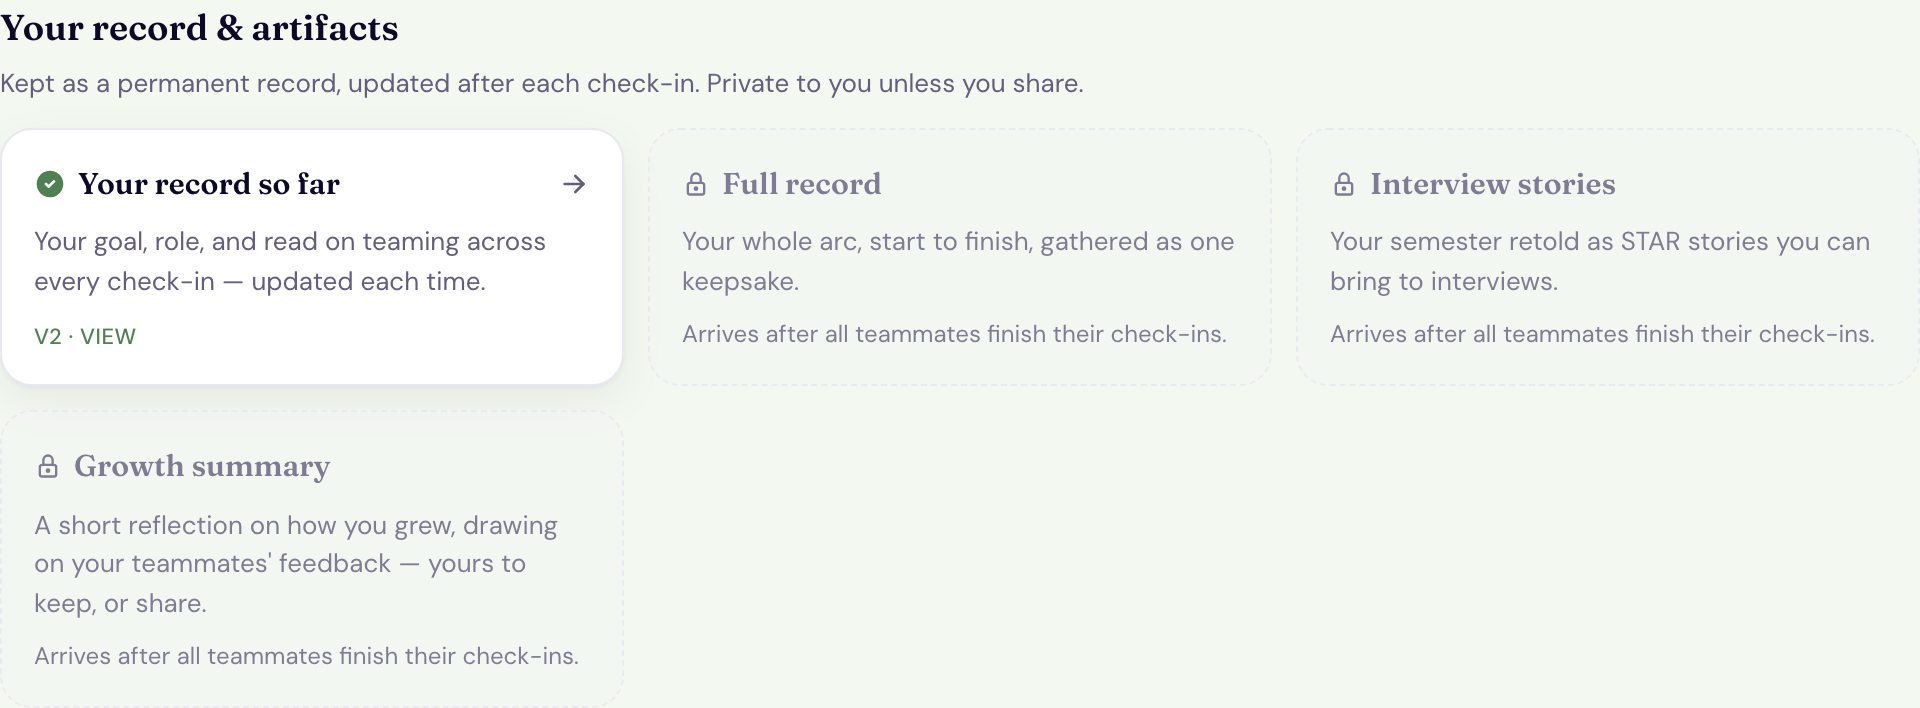
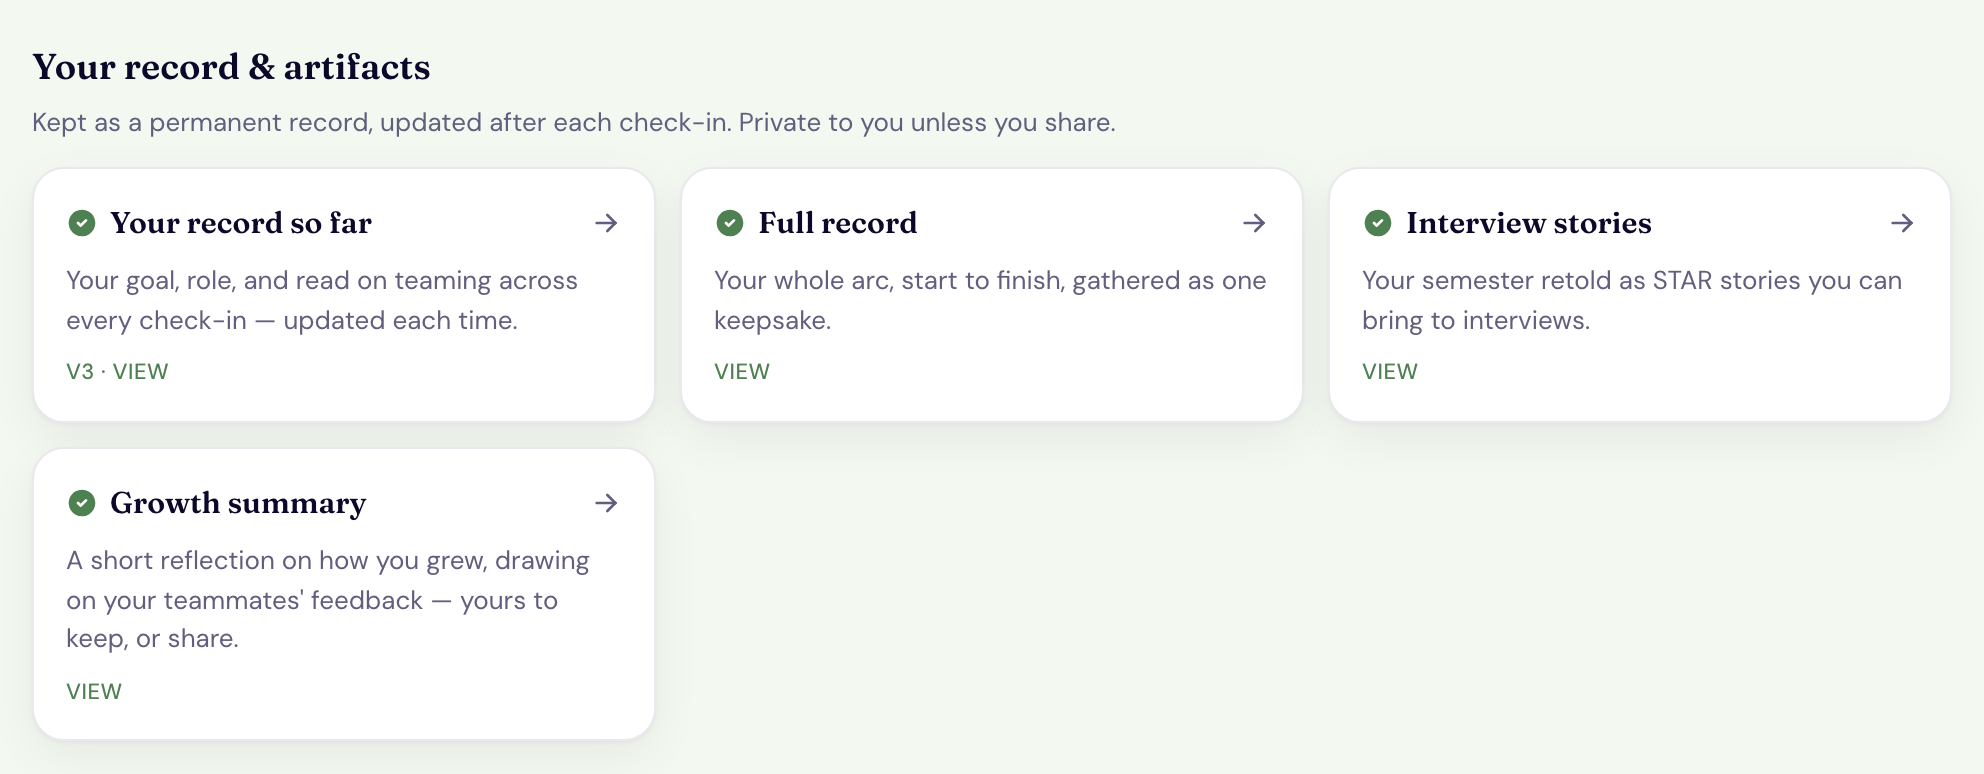
docs: refresh all student-journey screenshots + add onboarding & checkpoint visuals
Regenerated every student-journey screenshot from the live app (they were
captured before the recent checkpoint/profile UI changes) and added new ones so
the guide walks the whole path visually: onboarding (basics → résumé → the
post-extraction review → background → direction), the clean start "charter", the
mid/end survey with thumbs, the goal carry-forward, the peer-feedback section,
and the end-of-course post-mortem.

Text fixes for behaviour that changed:
- onboarding: the résumé step is a required gate, not "optional/skippable";
  documented the post-extraction review screen.
- checkpoint: the start checkpoint's attributes are aspirational (no thumbs);
  from mid-point on each gets a 👍/👉/👎 with one section-level reflection (there
  are no per-attribute notes); goal carries forward at every later checkpoint.
- overview: corrected the attributes description to match.
- how-to-read: screenshots now come from a seeded student account in Info 213.

Screenshots are now generated by a reproducible script (see SHOTLIST.md /
app-repo scripts/docs-shots), so future refreshes are one command.

diff --git a/docs/SHOTLIST.md b/docs/SHOTLIST.md
@@ -1,44 +1,42 @@
-# Screenshot shot-list
+# Screenshots — how they're captured
 
-Every image the docs reference, where to capture it, and the account/state needed.
-Capture at ~1280px wide, save as PNG into `docs/public/screenshots/<name>.png`.
-Sign in as **maya.demo@berkeley.edu** unless noted.
+Screenshots are **generated by a reproducible script**, not captured by hand, so
+they always match the live app. The scripts live in the main app repo at
+`scripts/docs-shots/` and write PNGs (1280px wide, 2× retina) straight into
+`docs/public/screenshots/`.
 
-| File | Route | What to show / state |
-| --- | --- | --- |
-| `signin.png` | `/login` (signed out) | The sign-in card |
-| `onboarding-basics.png` | `/onboarding` | First onboarding step *(fresh account; may need a new signup)* |
-| `onboarding-resume.png` | `/onboarding/resume` | The optional résumé step |
-| `join-code.png` | `/courses/new` | The join-by-code entry |
-| `course-new.png` | `/courses/new` | The two add options (code / catalog) |
-| `profile-graph.png` | `/profile` | Graph view of the map |
-| `profile-atlas.png` | `/profile` (toggle Atlas) | Atlas view |
-| `node-detail.png` | click any node | A node detail page |
-| `add-menu.png` | Home / Profile → Add | The Add menu open |
-| `portfolio.png` | `/experiences` | Portfolio of experiences + courses |
-| `moment-capture.png` | `/capture` | The moment capture screen |
-| `style-interests.png` | `/interests` | The interests survey |
-| `course-arc.png` | - | *(optional)* the two course dashboards side by side, or skip |
-| `course-welcome.png` | `/containers/info-213-fall-2026/welcome` | Welcome screen *(may redirect if already past it)* |
-| `course-stories.png` | `/containers/info-213-fall-2026/stories` | Choosing stories to share |
-| `course-dashboard.png` | `/containers/designing-human-body-fall-2026` | Hero + schedule (progress + next step) |
-| `course-tabs.png` | same | The Class / Team / Personal tab bar |
-| `checkpoint-form.png` | `/containers/designing-human-body-fall-2026/checkpoint/<mid2 id>` | The check-in survey |
-| `checkpoint-peer.png` | same (a mid/end checkpoint) | The peer-feedback section |
-| `class-overlay.png` | C178 → Class tab | "Your class right now" |
-| `class-identity.png` | C178 or Info 213 → Class tab | The identity graph |
-| `class-storyboard.png` | Info 213 → Class tab | The storyboard preview |
-| `team-locked.png` | a team with 0 fully-in checkpoints | Locked state *(may not exist in seed - capture the "waiting" note instead)* |
-| `team-report.png` | Info 213 (Bird Song) → Team tab | Unlocked team report |
-| `personal-growth.png` | C178 → Personal tab | Growth-over-time timeline |
-| `personal-feedback.png` | C178 or Info 213 → Personal tab | Unattributed peer feedback |
-| `artifacts-roadmap.png` | C178 → Personal tab (scroll) | The artifact roadmap (ready → locked) |
-| `finishing.png` | Info 213 → schedule | "You've completed every checkpoint" |
-| `explore-map.png` | `/mimspaths/map` | Alumni map |
-| `explore-chat.png` | `/mimspaths/chat` | Chat companion |
-| `insights.png` | `/insights` | Insights view |
-| `settings.png` | `/settings` or `/profile/edit` | Settings / edit identity |
-| `faculty-claim.png` | `/faculty/claim` | Claim-by-code *(faculty account: `stef.demo@berkeley.edu`)* |
-| `faculty-setup.png` | `/faculty/containers/info-213-fall-2026/setup` | Roster / teams / join code |
-| `faculty-dashboard.png` | `/faculty/containers/info-213-fall-2026` | Cohort dashboard |
-| `faculty-team.png` | `/faculty/containers/info-213-fall-2026/teams/<id>` | A per-team view |
+## Regenerate everything
+
+From the **app** repo (`appliedteaming/`), with `.env` present (needs
+`SUPABASE_SERVICE_ROLE_KEY` + the Supabase URL/anon key):
+
+```bash
+node scripts/docs-shots/capture.mjs            # profile, dashboard, checkpoints, artifacts, team story
+node scripts/docs-shots/capture-tabs.mjs       # Class / Team / Personal tab sections
+node scripts/docs-shots/capture-onboarding.mjs # the 4-step onboarding wizard (resets a test account)
+node scripts/docs-shots/capture-misc.mjs       # sign-in, atlas, tab bar, join
+```
+
+Each script signs in as a seeded **test account** by minting a session through
+the Supabase admin API (a magic-link token verified server-side — no passwords),
+then drives Playwright to the real production pages. Re-running overwrites the
+PNGs in place, so a docs refresh after a UI change is one command.
+
+## The image set
+
+Grouped by where they appear in the guide:
+
+- **Getting started** — `signin`, `onboarding-basics`, `onboarding-resume`,
+  `onboarding-review`, `onboarding-background`, `onboarding-direction`,
+  `join-code`, `course-new`
+- **Living profile** — `home-graph`, `home-atlas`
+- **Course dashboard** — `course-dashboard`, `course-tabs`, `finishing`
+- **Check-ins** — `checkpoint-charter` (start), `checkpoint-form` (mid/end),
+  `checkpoint-carryforward`, `checkpoint-peer`, `checkpoint-end`
+- **Class view** — `class-overlay`, `class-identity`, `class-storyboard`
+- **Team view** — `team-report`, `team-synthesis-section`, `team-synthesis`
+- **Personal view** — `personal-growth`, `personal-feedback`, `artifacts-roadmap`
+- **Artifacts** — `artifact-record`, `artifact-interview-stories`, `artifact-growth-summary`
+
+Faculty and explore shots (`faculty-*`, `explore-*`) are captured the same way
+against those routes; extend the scripts as those pages change.

diff --git a/docs/course/checkpoint.md b/docs/course/checkpoint.md
@@ -1,31 +1,58 @@
 # A checkpoint check-in
 
-**What it is** - the short survey a student fills in at each checkpoint. It's the same three questions every time, so it takes only a minute or two.
+**What it is** — the short survey a student fills in at each checkpoint. It's the same shape every time, so it takes only a minute or two. **No scores anywhere** — it's reflection, not assessment.
 
-## What the student does
+## The three questions
 
 <div class="steps">
 
 1. From the dashboard, tap the **next-step** button (e.g., "Start: Team Charter").
-2. **Your goal** - what they want to get out of the course (or how it's shifting).
-3. **Your role** - the role they expect to play, or are actually playing, on the team.
-4. **Core attributes** - pick up to three teaming attributes and rate each 👍 (going well) / 👉 (so-so) / 👎 (rough), with a short note on **why**.
-5. At the mid and end checkpoints, add brief **peer feedback** for each teammate.
+2. **Your goal** — what they want to get out of the course (start), or how it's shifting (mid/end).
+3. **Your role** — the role they *expect* to play (start), or are *actually* playing (mid/end): pick up to two.
+4. **Core attributes** — pick up to three teaming attributes that matter most (see below).
+5. At the **mid and end** checkpoints, add brief **peer feedback** for each teammate.
 6. Save.
 
 </div>
 
-![The checkpoint survey - goal, role, attributes.](/screenshots/checkpoint-form.png)
-*One page: goal, role, and up to three attributes with a lightweight thumb rating and a note.*
+## The start checkpoint (the "charter")
 
-At the mid and end checkpoints, the same page adds a short **peer-feedback** section - for each teammate, what they did well and what could differ. It's shown only to the person it's about, later, in their [Personal view](/course/personal-view).
+At the **first** checkpoint the attributes question is **aspirational** — *which* attributes the student most wants their team to get right. It's a simple pick-up-to-three, followed by one short reflection on why those matter. There are **no 👍 / 👉 / 👎 thumbs here** — you can't rate how a team is doing before it has done anything.
+
+![The start-checkpoint survey — goal, role, and aspirational attributes.](/screenshots/checkpoint-charter.png)
+*The Team Charter: a goal, a role, and up to three attributes the student wants to get right — chosen, not rated.*
+
+## The mid and end checkpoints
+
+From the mid-point on, the attributes question flips to **how it's actually going**: each chosen attribute gets a **thumb** — 👍 going well · 👉 so-so · 👎 rough — and a single short reflection covers the set.
+
+![The mid/end checkpoint survey with thumb ratings.](/screenshots/checkpoint-form.png)
+*One page: goal, role, and up to three attributes with a lightweight thumb rating, plus a short overall reflection.*
+
+### Your goal, carried forward
+
+At every checkpoint after the first, the student's **earlier goal answers are shown above the question**, oldest first — so they can see how their thinking has moved before writing the next one.
+
+![The goal carry-forward reminder.](/screenshots/checkpoint-carryforward.png)
+*"Previously, here's what you've said about your goal" — every earlier answer, in order. (This carry-forward is goal-only.)*
+
+### Peer feedback (mid and end)
+
+The same page adds a short **peer-feedback** section — for each teammate, what they did well and one thing that could help the team. It's optional, and shown only to the person it's about, later, in their [Personal view](/course/personal-view).
+
+![The peer-feedback section.](/screenshots/checkpoint-peer.png)
+*Broad and kind — "what they did well" and "what could they do differently," one card per teammate.*
 
 ## What the student sees
 
-The whole check-in is a single page. A microphone on every text field lets the student **speak instead of type** (transcribed on-device). The thumb ratings keep the "how's it going" part fast and light.
+The whole check-in is a **single page**. A microphone on every text field lets the student **speak instead of type** (transcribed on-device). The end-of-course check-in shows the full arc of earlier goals:
+
+![The end-of-course post-mortem, with the whole goal history.](/screenshots/checkpoint-end.png)
+*The Post-mortem: "Looking back — did you get what you set out to?", above every goal from the semester.*
 
 ## Notes
 
-- **The moment they submit**, the class view updates. Their teammates don't see their answers by name.
-- **Peer feedback is shown only to the person it's about**, later, in their Personal view - never to faculty by name.
+- **The moment they submit**, the class view updates. Teammates never see their answers by name.
+- **Peer feedback is shown only to the person it's about**, later, in their Personal view — never to faculty by name.
+- **Roles and attributes are in-the-moment** — they're answered fresh each time, and the *shift* over the semester shows up in the reports, not as a reminder on the form.
 - A student can revise a check-in anytime before its deadline.

diff --git a/docs/getting-started/onboarding.md b/docs/getting-started/onboarding.md
@@ -1,26 +1,48 @@
 # 2 · First-run onboarding
 
-**What it is** - a short, one-time setup right after the first sign-up. It seeds the student's profile map so it isn't empty on day one. It takes a couple of minutes.
+**What it is** — a short, one-time setup right after the first sign-up. It seeds the student's profile map so it isn't empty on day one. It takes a couple of minutes, and there's a progress bar the whole way ("Step 1 of 4").
 
-## What the student does
+## Step 1 · The basics
 
-Four short steps, with a progress bar at the top ("Step 1 of 4"):
+Full name, plus optional school / program, graduation year, and major. This becomes the first landmark on their map.
 
-<div class="steps">
+![Onboarding step 1 — the basics.](/screenshots/onboarding-basics.png)
+*Step 1 of 4. Only the name is required; the rest is optional.*
 
-1. **The basics** - full name, school / program, graduation year, and major.
-2. **Résumé (optional)** - a drag-and-drop importer; the app quietly reads it to pre-fill skills and experience. Skippable.
-3. **Background** - a little about past experience.
-4. **Direction** - where they might be headed (a target or interests), or "still exploring."
+## Step 2 · Add a résumé
 
-</div>
+A drag-and-drop importer (`.pdf`, `.docx`, or `.txt`). The app reads it with AI and pulls out education, experience, and skills — so the map already reflects who the student is the moment they step inside.
 
-## What the student sees
+![Onboarding step 2 — the résumé importer.](/screenshots/onboarding-resume.png)
+*Drop a résumé or a LinkedIn PDF export. Nothing is shared — it only builds the student's own private map.*
 
-Onboarding is a guided, step-by-step flow with a progress bar. Each step is short, and the résumé step is skippable - but uploading a résumé gives the profile map a rich head start.
+::: warning A résumé is required to finish onboarding
+This step has **no skip** — a student can't move past it without a successful upload. If they have nothing to upload, a short plain-text file works. (The "optional résumé" wording elsewhere in the app is being reconciled with this.)
+:::
+
+### What happens right after the résumé is read
+
+The app shows everything it found, grouped into **Education**, **Experience**, and **Skills**, and lets the student **edit, remove, or add** anything before it's saved. Nothing is committed until they choose **Save to profile**.
+
+![The extracted-résumé review screen.](/screenshots/onboarding-review.png)
+*"Review what we found" — the parsed résumé, fully editable. The student is always in control of what gets saved.*
+
+## Step 3 · Background
+
+A quick set of chips for prior roles, functions, or sectors — school projects count too. Skippable.
+
+![Onboarding step 3 — background.](/screenshots/onboarding-background.png)
+*"Where you've been" — pick what fits, or skip if just starting out.*
+
+## Step 4 · Direction
+
+Where they might be headed — target roles and industries — or nothing at all if they're still exploring.
+
+![Onboarding step 4 — direction.](/screenshots/onboarding-direction.png)
+*"Where you're headed" — all optional, and refinable anytime later.*
 
 ## Notes
 
 - **Nothing here is graded or shared.** It only builds the student's own private map.
-- If a student skips the résumé, the app gently reminds them later on Home and Profile - never as a blocker.
-- The moment onboarding finishes, the student lands on **Home** with a starter map already drawn.
+- The moment onboarding finishes, the student lands on **[Home](/profile/the-map)** with a starter map already drawn — education, experience, skills, and direction all in place.
+- Everything is editable later from the profile and settings; onboarding is just a warm start.

diff --git a/docs/course/overview.md b/docs/course/overview.md
@@ -11,7 +11,7 @@ Every pilot course is the same handful of check-ins - **start, middle, end** - j
 | **Info 213** | Team Charter → Mid-point check-in → Post-mortem *(3)* |
 | **MEC ENG C178 / BIO ENG C137** | Start → Mid-point 1 → Mid-point 2 → End *(4)* |
 
-Each check-in captures the **same three things**: an individual **goal**, a team **role**, and how a few core **team attributes** are going (👍 / 👉 / 👎, each with a short note). Same surveys everywhere; one course simply has an extra mid-point checkpoint.
+Each check-in captures the **same three things**: an individual **goal**, a team **role**, and a few core **team attributes**. At the **start** the attributes are chosen aspirationally (what the team wants to get right); from the **mid-point** on, each gets a light 👍 / 👉 / 👎 on how it's *actually* going, with one short reflection. Same surveys everywhere; one course simply has an extra mid-point checkpoint.
 
 ## What a student moves through
 

diff --git a/docs/how-to-read.md b/docs/how-to-read.md
@@ -9,10 +9,7 @@ Each page follows the same shape so it's easy to scan.
 
 ## The demo account
 
-Every screenshot in this guide was captured from a real seeded demo account so you can follow along:
-
-- **Student:** `maya.demo@berkeley.edu`
-- She's in two pilot courses - **Info 213** (a UX design class) and **MEC ENG C178 / BIO ENG C137** (a design course) - each with teammates and classmates.
+Every screenshot in this guide was captured from a **real seeded student account** in a live pilot course (**Info 213**, a UX design class), so what you see is exactly what a student sees — the same map, check-ins, teammates, and classmates.
 
 ::: info Following along yourself
 Ask your Applied Teaming contact for the demo sign-in, open the app, and you can retrace every step in this guide.
